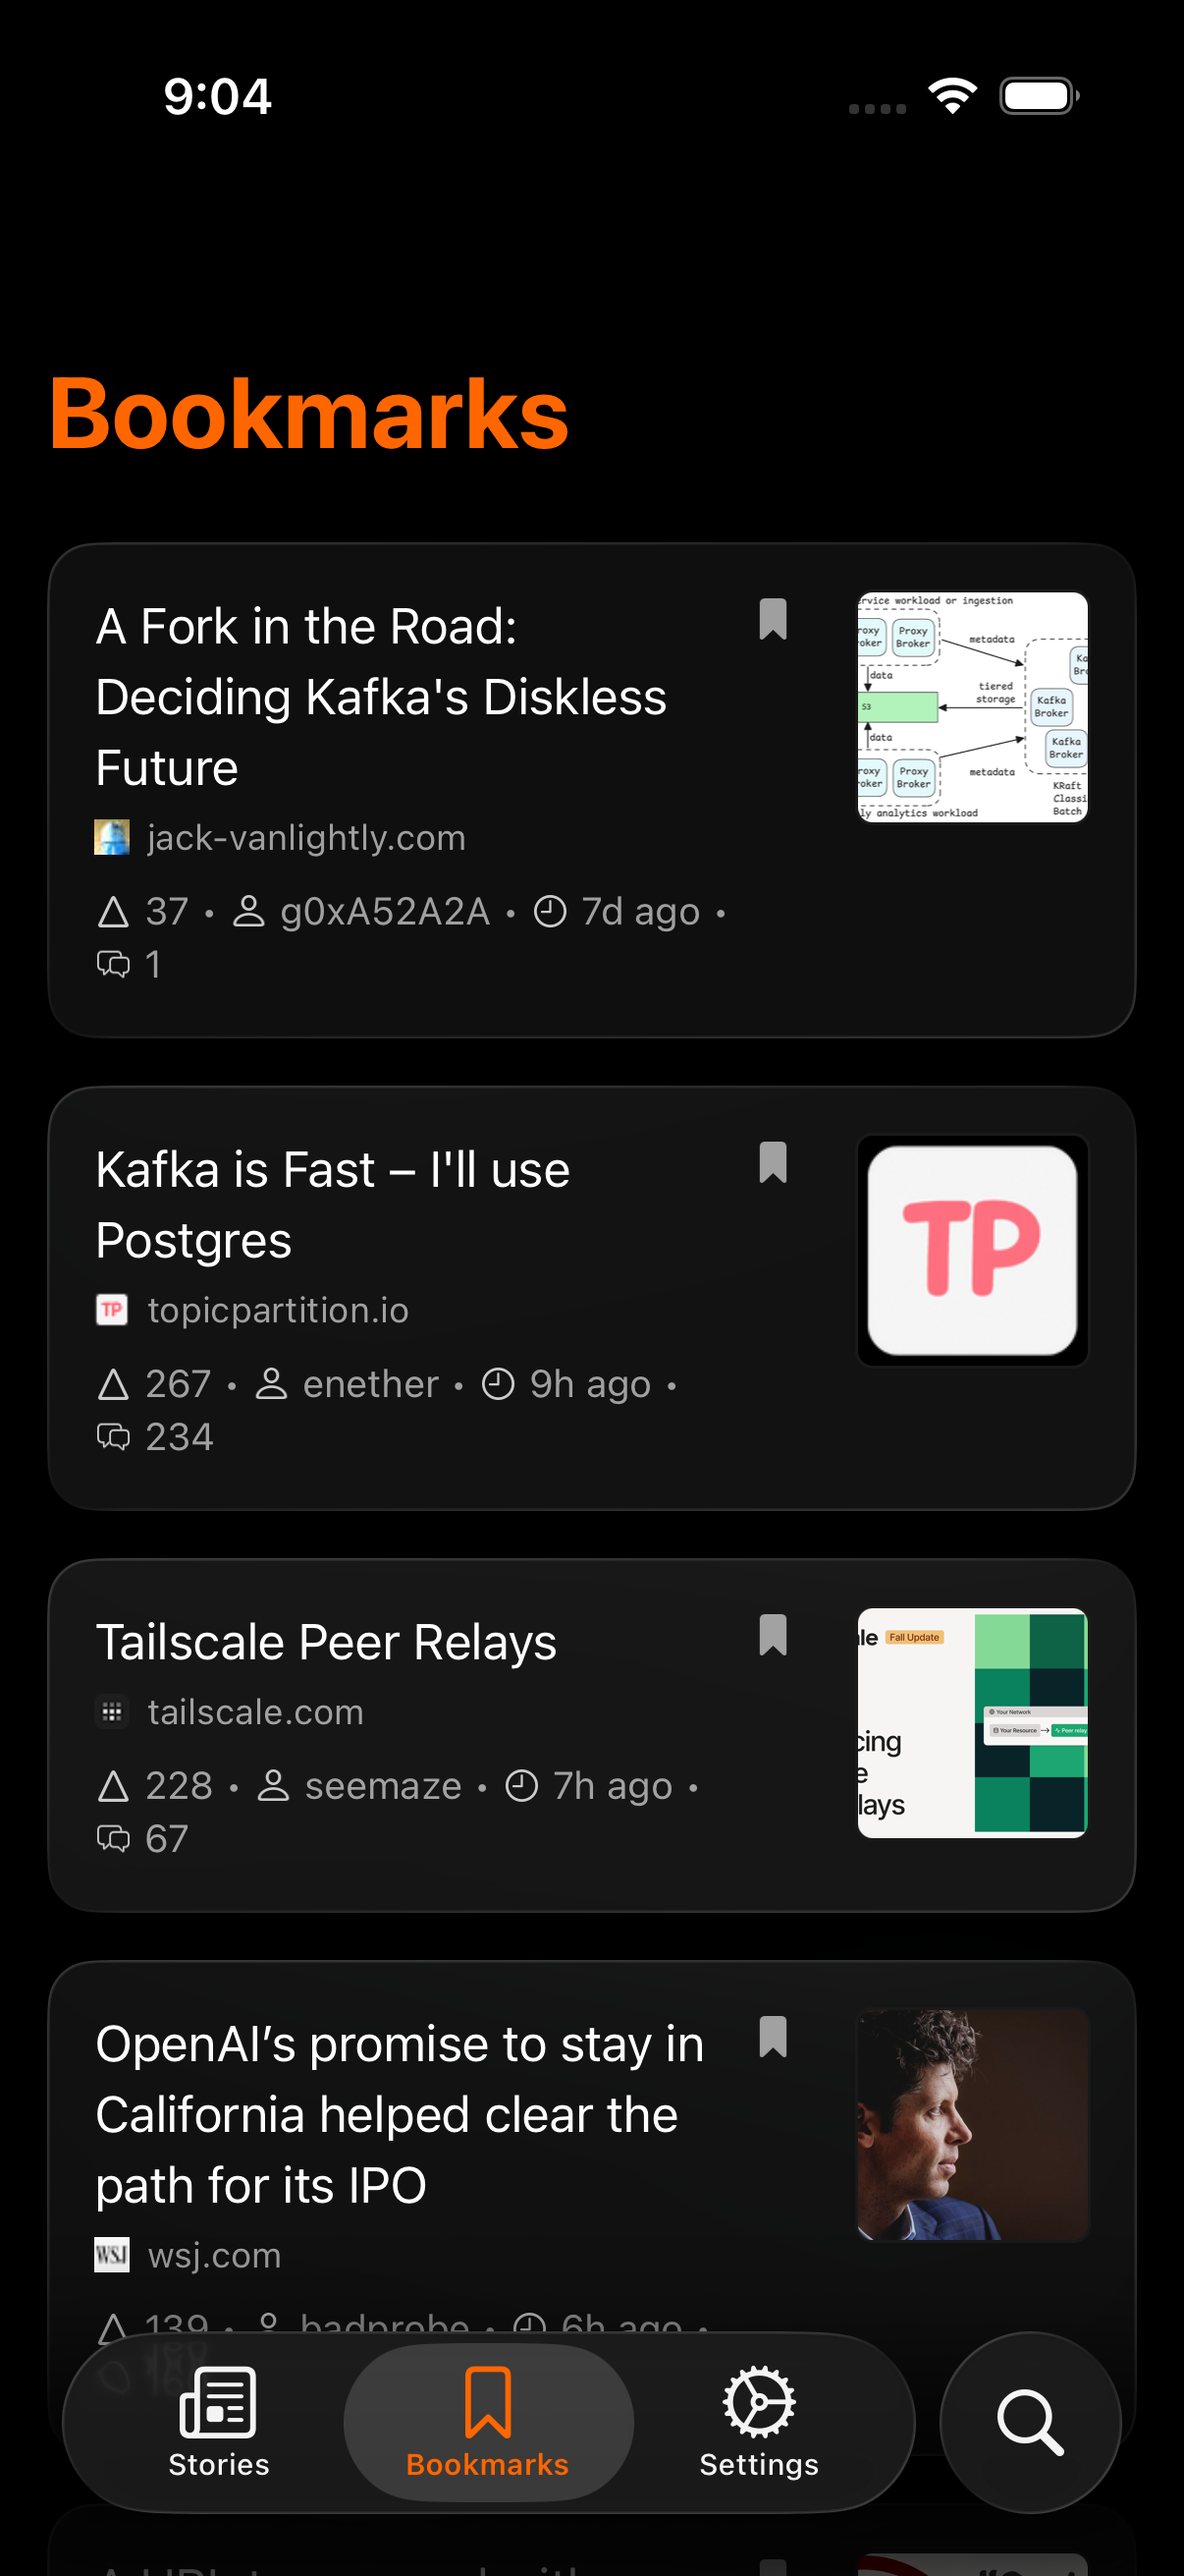
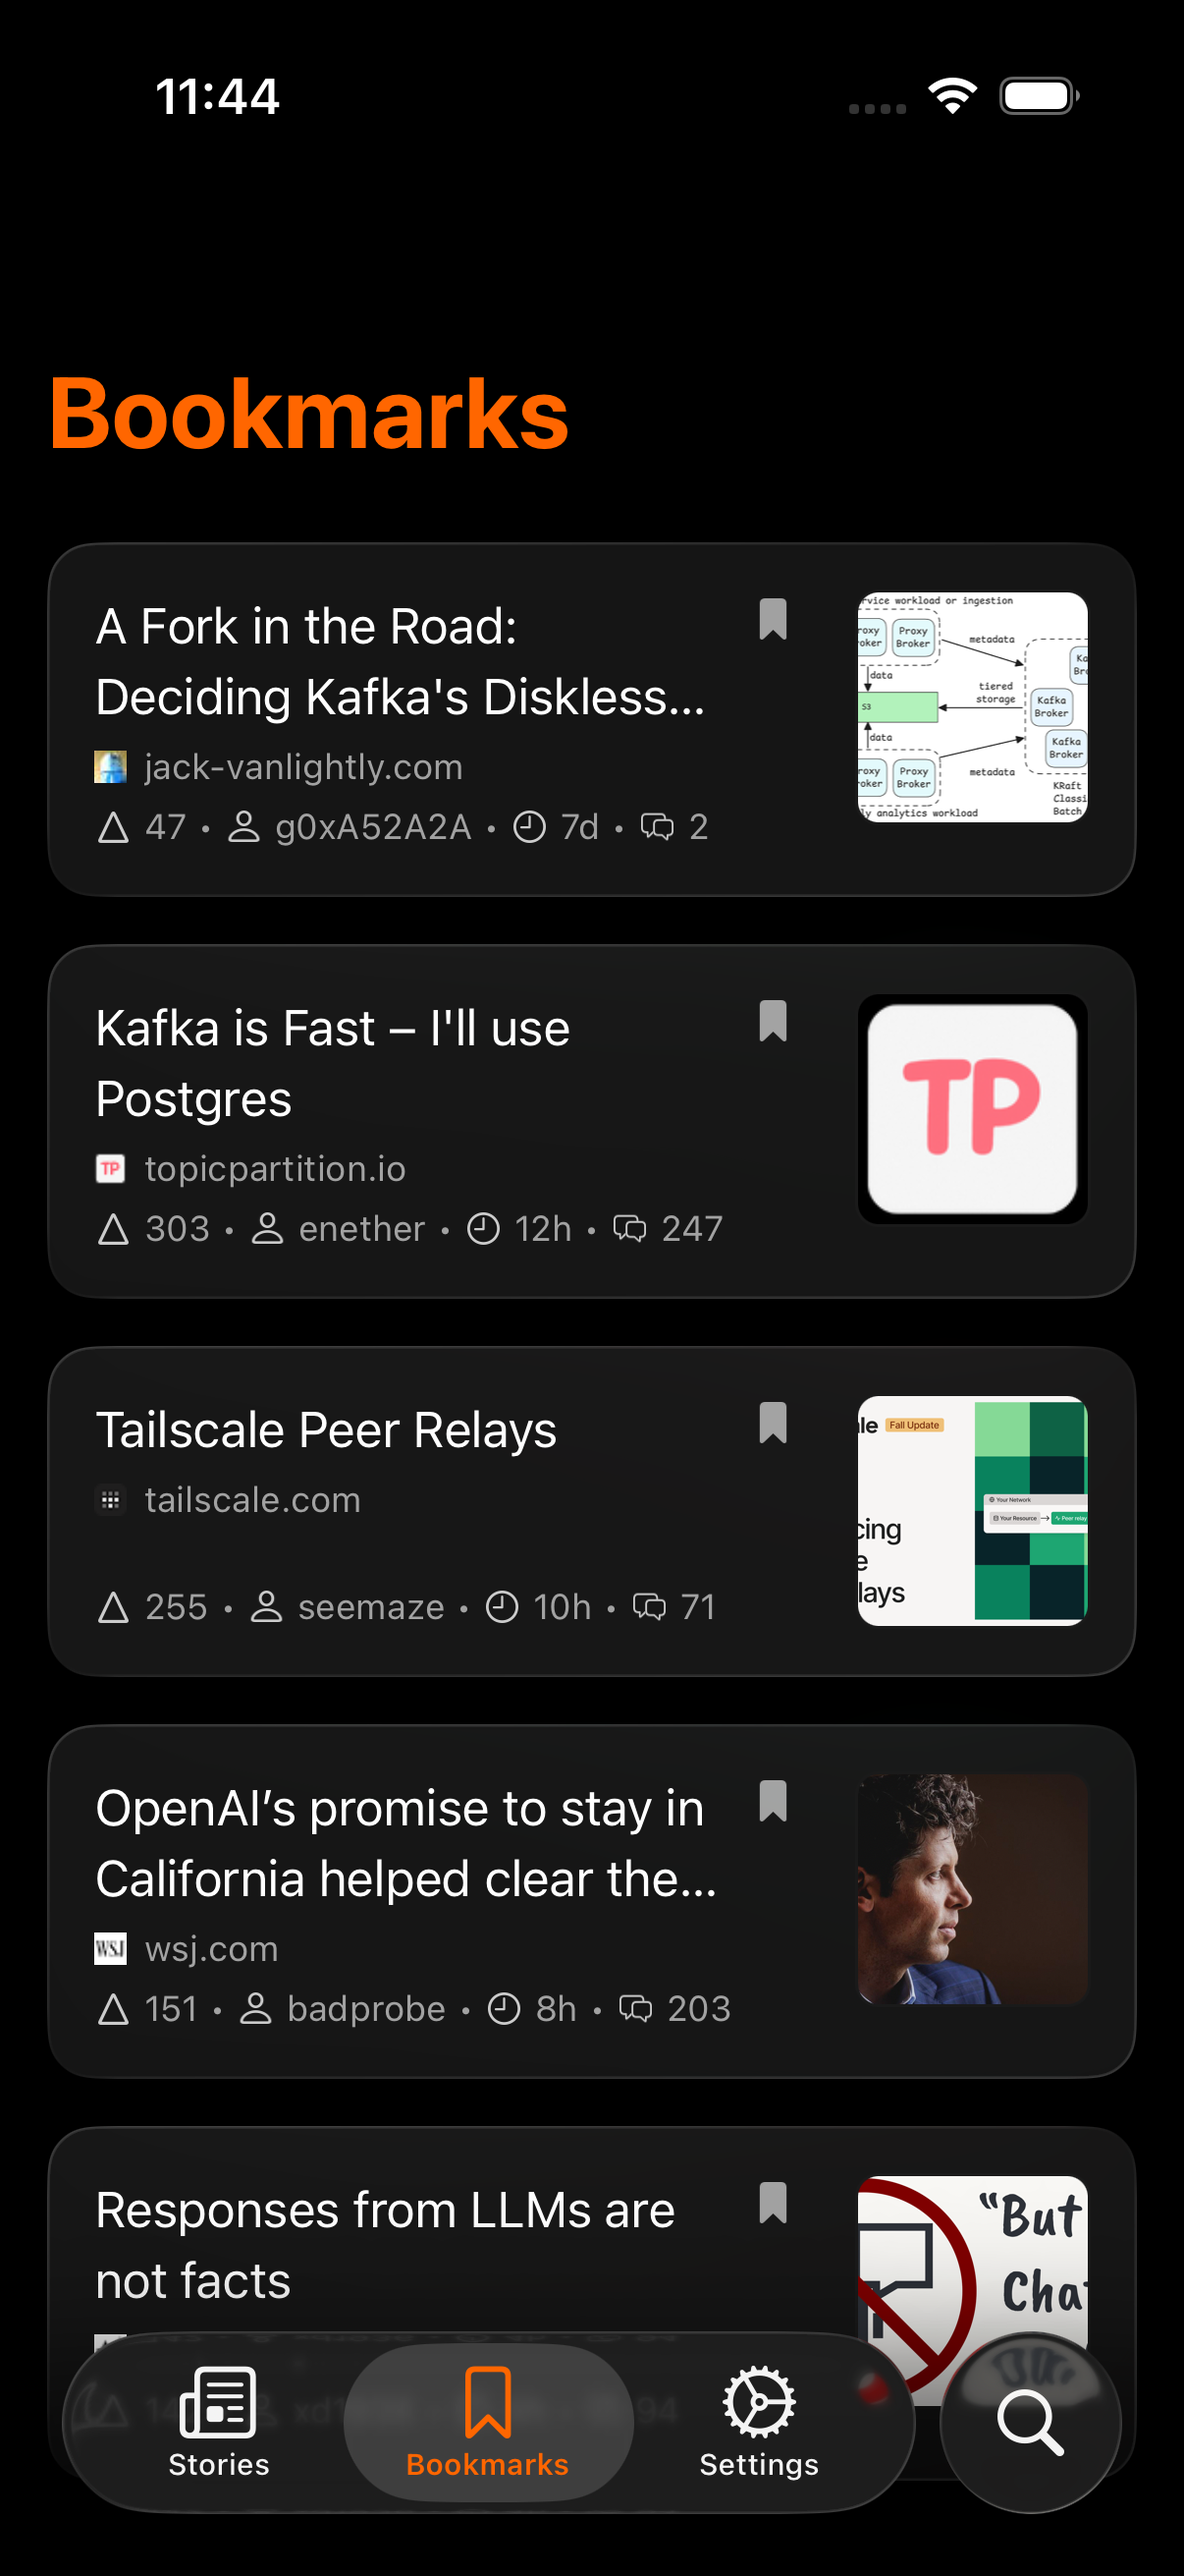
Update styles in LinkPreview and StoryCard components for improved layout and consistency; adjust font sizes, margins, and padding for better visual hierarchy; refine timeAgo function output format for clarity.

diff --git a/apps/mobile/components/story-card/story-card.tsx b/apps/mobile/components/story-card/story-card.tsx
@@ -45,46 +45,48 @@ export function StoryCard({ story, index }: StoryCardProps) {
         <Link.Trigger>
           <View style={styles.header}>
             <View style={styles.content}>
-              {/* Title with bookmark indicator */}
-              <View style={styles.titleRow}>
-                <ThemedText
-                  type="bodyLarge"
-                  style={styles.title}
-                  numberOfLines={3}
-                >
-                  {story.title}
-                </ThemedText>
-                {isBookmarked && (
-                  <IconSymbol
-                    name="bookmark.fill"
-                    size={16}
-                    color={textColor}
-                    style={styles.bookmarkIndicator}
-                  />
+              <View style={styles.topSection}>
+                {/* Title with bookmark indicator */}
+                <View style={styles.titleRow}>
+                  <ThemedText
+                    type="bodyLarge"
+                    style={styles.title}
+                    numberOfLines={2}
+                  >
+                    {story.title}
+                  </ThemedText>
+                  {isBookmarked && (
+                    <IconSymbol
+                      name="bookmark.fill"
+                      size={16}
+                      color={textColor}
+                      style={styles.bookmarkIndicator}
+                    />
+                  )}
+                </View>
+
+                {/* Domain */}
+                {domain && (
+                  <View style={styles.domainContainer}>
+                    <Image
+                      source={{
+                        uri: `https://www.google.com/s2/favicons?domain=${domain}&sz=16`,
+                      }}
+                      style={styles.favicon}
+                      contentFit="contain"
+                    />
+                    <ThemedText type="caption" style={styles.domain}>
+                      {domain}
+                    </ThemedText>
+                  </View>
                 )}
               </View>
-
-              {/* Domain with favicon */}
-              {domain && (
-                <View style={styles.domainContainer}>
-                  <Image
-                    source={{
-                      uri: `https://www.google.com/s2/favicons?domain=${domain}&sz=16`,
-                    }}
-                    style={styles.favicon}
-                    contentFit="contain"
-                  />
-                  <ThemedText type="caption" style={styles.domain}>
-                    {domain}
-                  </ThemedText>
-                </View>
-              )}
 
               {/* Metadata */}
               <StoryCardMetadata story={story} hasVoted={actions.hasVoted} />
             </View>
 
-            {/* Link preview (if URL exists) */}
+            {/* Link preview */}
             {story.url && <LinkPreview url={story.url} compact />}
           </View>
         </Link.Trigger>
@@ -139,6 +141,11 @@ const styles = StyleSheet.create({
   },
   content: {
     flex: 1,
+    justifyContent: "space-between",
+    minHeight: 70,
+  },
+  topSection: {
+    flexShrink: 1,
   },
   titleRow: {
     flexDirection: "row",
@@ -157,11 +164,12 @@ const styles = StyleSheet.create({
     flexDirection: "row",
     alignItems: "center",
     gap: 6,
-    marginBottom: Spacing.sm,
   },
   favicon: {
-    width: 12,
-    height: 12,
+    width: 11,
+    height: 11,
+    borderRadius: 5.5,
+    overflow: "hidden",
   },
   domain: {
     opacity: 0.6,

diff --git a/apps/mobile/components/story-card/story-card-metadata.tsx b/apps/mobile/components/story-card/story-card-metadata.tsx
@@ -1,8 +1,8 @@
-import { ThemedText } from '@/components/themed-text';
-import { IconSymbol } from '@/components/ui/icon-symbol';
-import { useThemeColor } from '@/hooks/use-theme-color';
-import { timeAgo, type HNItem } from '@hn/shared';
-import { StyleSheet, View } from 'react-native';
+import { ThemedText } from "@/components/themed-text";
+import { IconSymbol } from "@/components/ui/icon-symbol";
+import { useThemeColor } from "@/hooks/use-theme-color";
+import { timeAgo, type HNItem } from "@hn/shared";
+import { StyleSheet, View } from "react-native";
 
 interface StoryCardMetadataProps {
   story: HNItem;
@@ -13,13 +13,13 @@ interface StoryCardMetadataProps {
  * Story metadata display (points, author, time, comments)
  */
 export function StoryCardMetadata({ story, hasVoted }: StoryCardMetadataProps) {
-  const iconColor = useThemeColor({}, 'icon');
+  const iconColor = useThemeColor({}, "icon");
 
   return (
     <View style={styles.metadata}>
       <View style={styles.metadataItem}>
         <IconSymbol
-          name={hasVoted ? 'arrowtriangle.up.fill' : 'arrowtriangle.up'}
+          name={hasVoted ? "arrowtriangle.up.fill" : "arrowtriangle.up"}
           size={13}
           color={iconColor}
         />
@@ -29,8 +29,8 @@ export function StoryCardMetadata({ story, hasVoted }: StoryCardMetadataProps) {
       </View>
 
       <ThemedText type="bodySmall" style={styles.metadataText}>
-        {' '}
-        •{' '}
+        {" "}
+        •{" "}
       </ThemedText>
 
       <View style={styles.metadataItem}>
@@ -41,8 +41,8 @@ export function StoryCardMetadata({ story, hasVoted }: StoryCardMetadataProps) {
       </View>
 
       <ThemedText type="bodySmall" style={styles.metadataText}>
-        {' '}
-        •{' '}
+        {" "}
+        •{" "}
       </ThemedText>
 
       <View style={styles.metadataItem}>
@@ -53,8 +53,8 @@ export function StoryCardMetadata({ story, hasVoted }: StoryCardMetadataProps) {
       </View>
 
       <ThemedText type="bodySmall" style={styles.metadataText}>
-        {' '}
-        •{' '}
+        {" "}
+        •{" "}
       </ThemedText>
 
       <View style={styles.metadataItem}>
@@ -73,17 +73,17 @@ export function StoryCardMetadata({ story, hasVoted }: StoryCardMetadataProps) {
 
 const styles = StyleSheet.create({
   metadata: {
-    flexDirection: 'row',
-    flexWrap: 'wrap',
-    alignItems: 'center',
+    marginTop: 8,
+    flexDirection: "row",
+    flexWrap: "wrap",
+    alignItems: "center",
   },
   metadataItem: {
-    flexDirection: 'row',
-    alignItems: 'center',
+    flexDirection: "row",
+    alignItems: "center",
     gap: 4,
   },
   metadataText: {
     opacity: 0.6,
   },
 });
-

diff --git a/apps/mobile/components/link-preview.tsx b/apps/mobile/components/link-preview.tsx
@@ -129,9 +129,9 @@ const styles = StyleSheet.create({
     justifyContent: "center",
   },
   title: {
-    fontSize: 15,
+    fontSize: 16,
     fontWeight: "600",
-    marginBottom: 4,
+    marginBottom: 8,
     lineHeight: 20,
   },
   description: {
@@ -147,6 +147,6 @@ const styles = StyleSheet.create({
   imageContainer: {
     borderRadius: 8,
     overflow: "hidden",
-    marginBottom: 8,
+    marginBottom: 16,
   },
 });

diff --git a/packages/shared/src/utils/time.ts b/packages/shared/src/utils/time.ts
@@ -8,10 +8,10 @@ export function timeAgo(timestamp: number): string {
   const diff = now - timestamp;
 
   if (diff < 3600) {
-    return `${Math.floor(diff / 60)}m ago`;
+    return `${Math.floor(diff / 60)}m`;
   }
   if (diff < 86400) {
-    return `${Math.floor(diff / 3600)}h ago`;
+    return `${Math.floor(diff / 3600)}h`;
   }
-  return `${Math.floor(diff / 86400)}d ago`;
+  return `${Math.floor(diff / 86400)}d`;
 }

diff --git a/apps/mobile/constants/theme.ts b/apps/mobile/constants/theme.ts
@@ -95,8 +95,8 @@ export const Typography = {
   },
   /** 13px - Secondary body text */
   bodySmall: {
-    fontSize: 13,
-    lineHeight: 18,
+    fontSize: 12,
+    lineHeight: 16,
     fontWeight: '400' as const,
   },
   /** 12px - Tertiary text, fine print */
